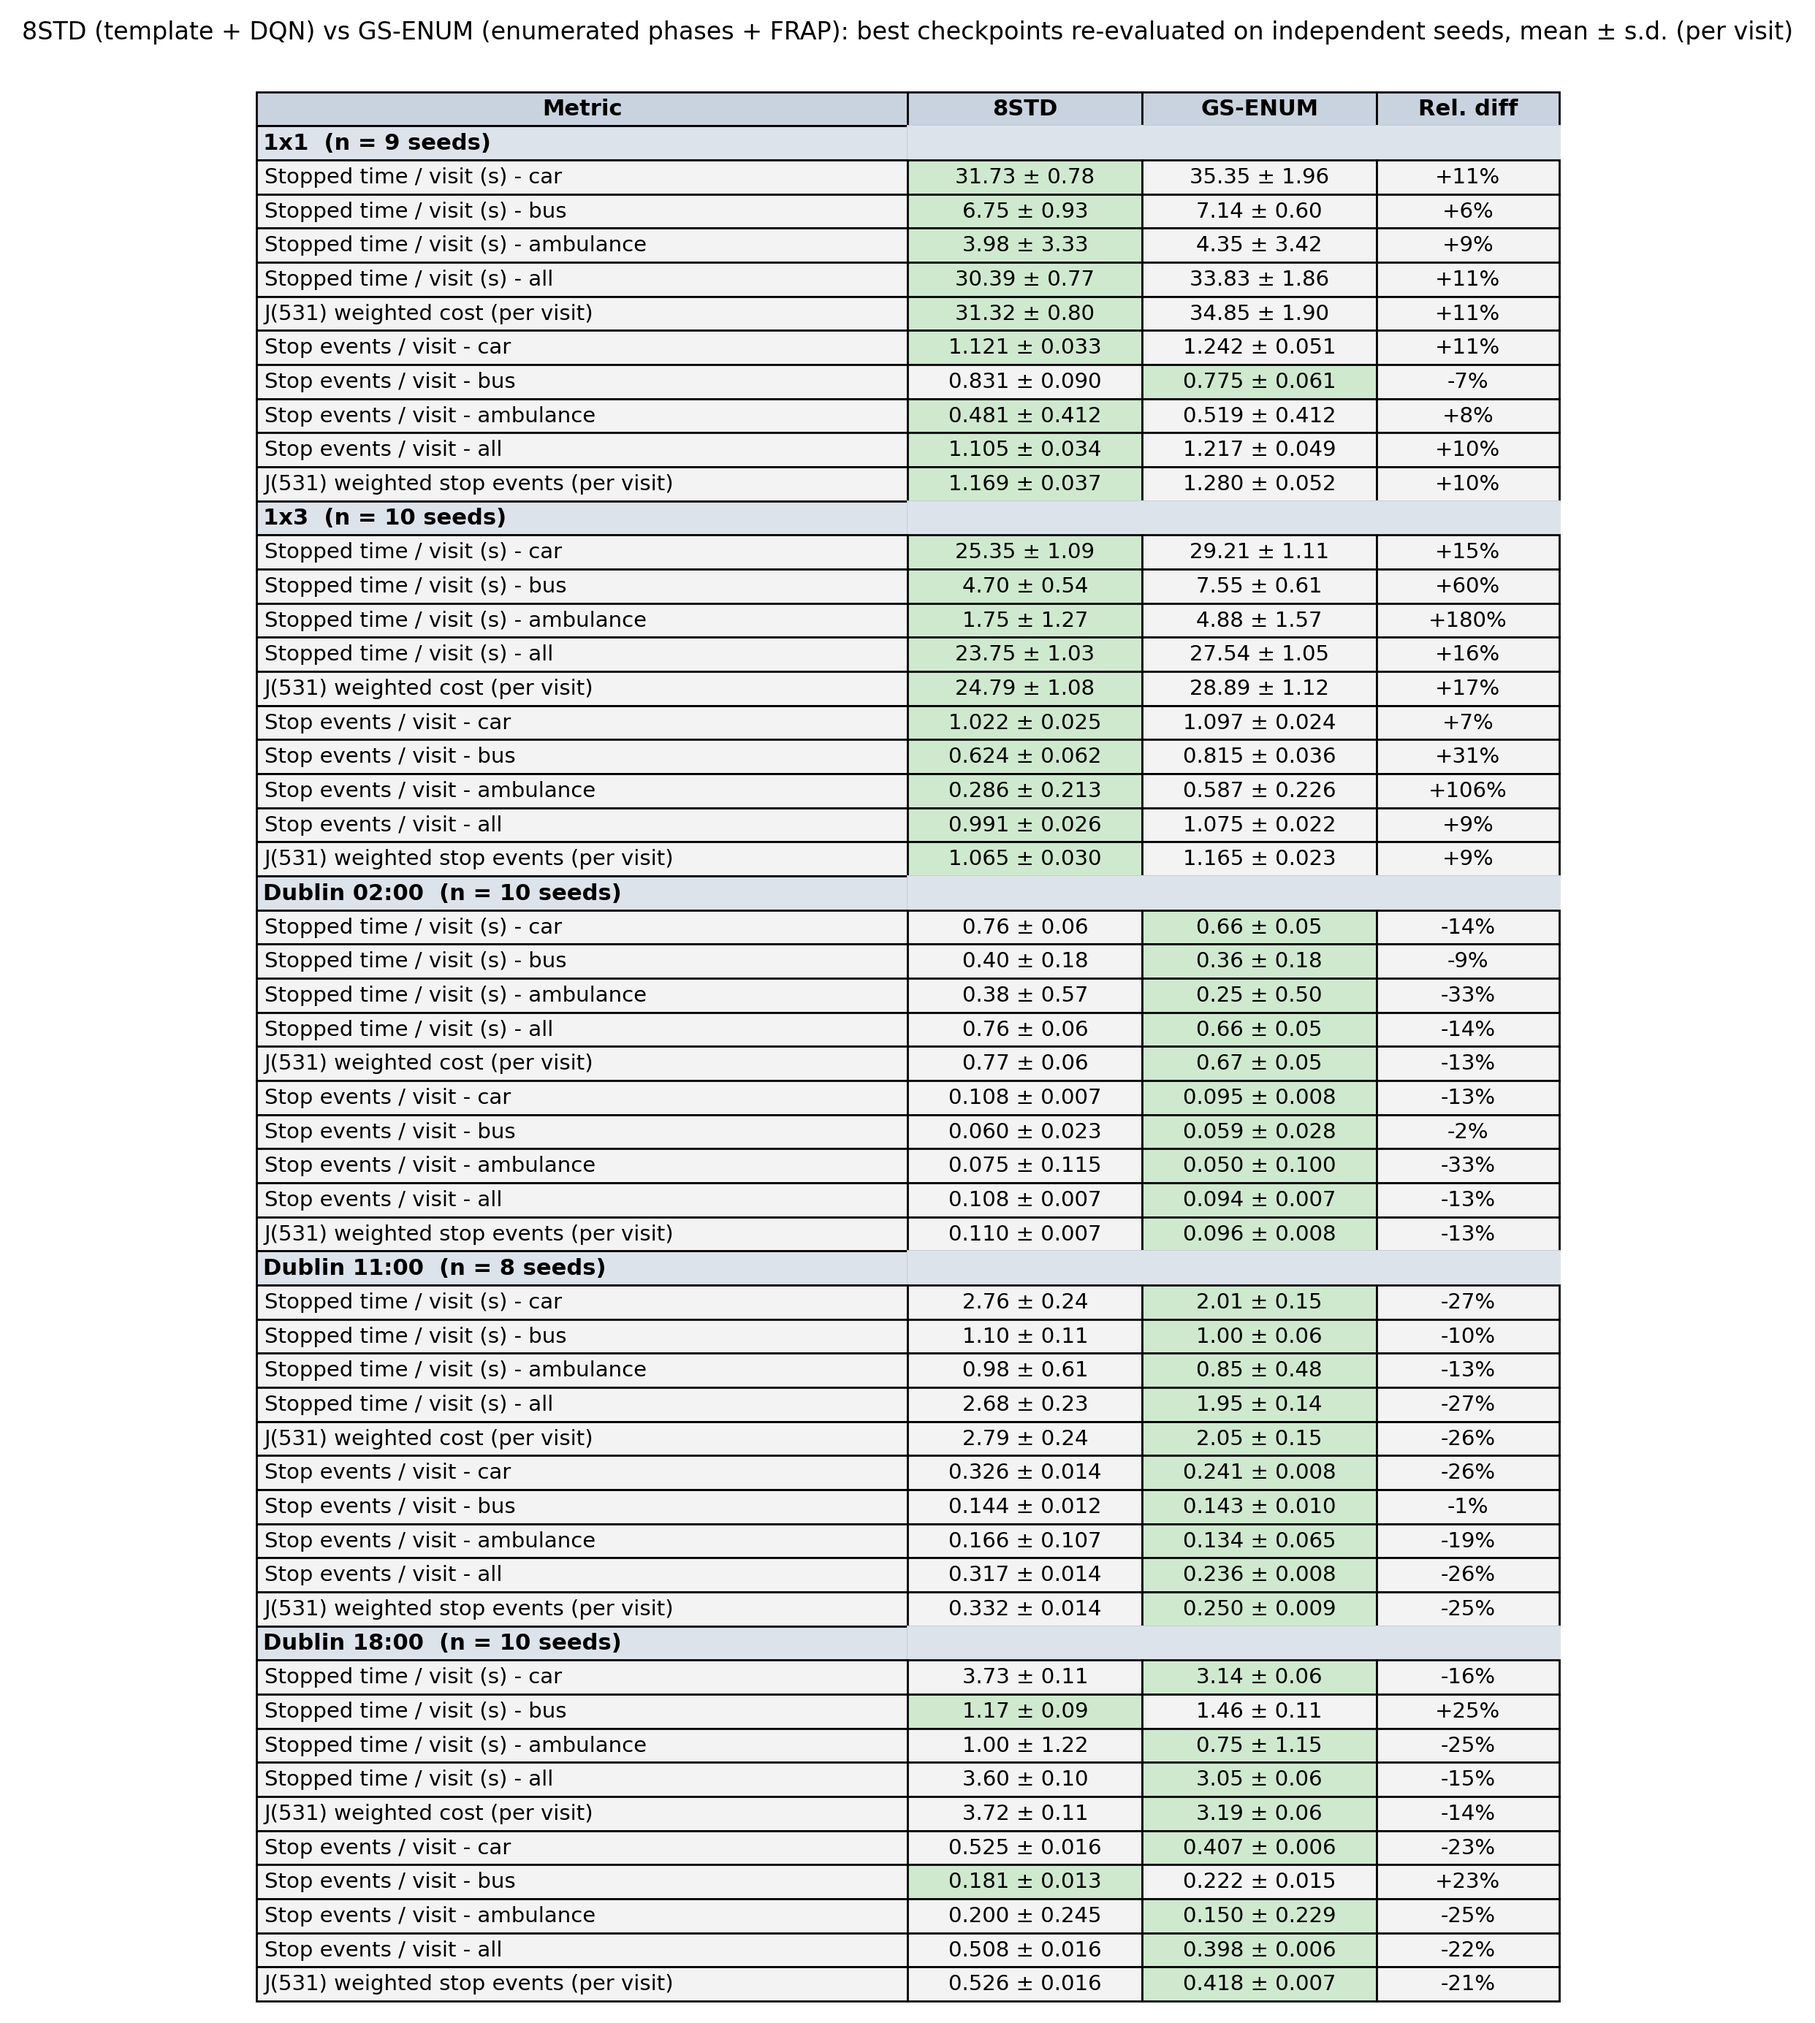
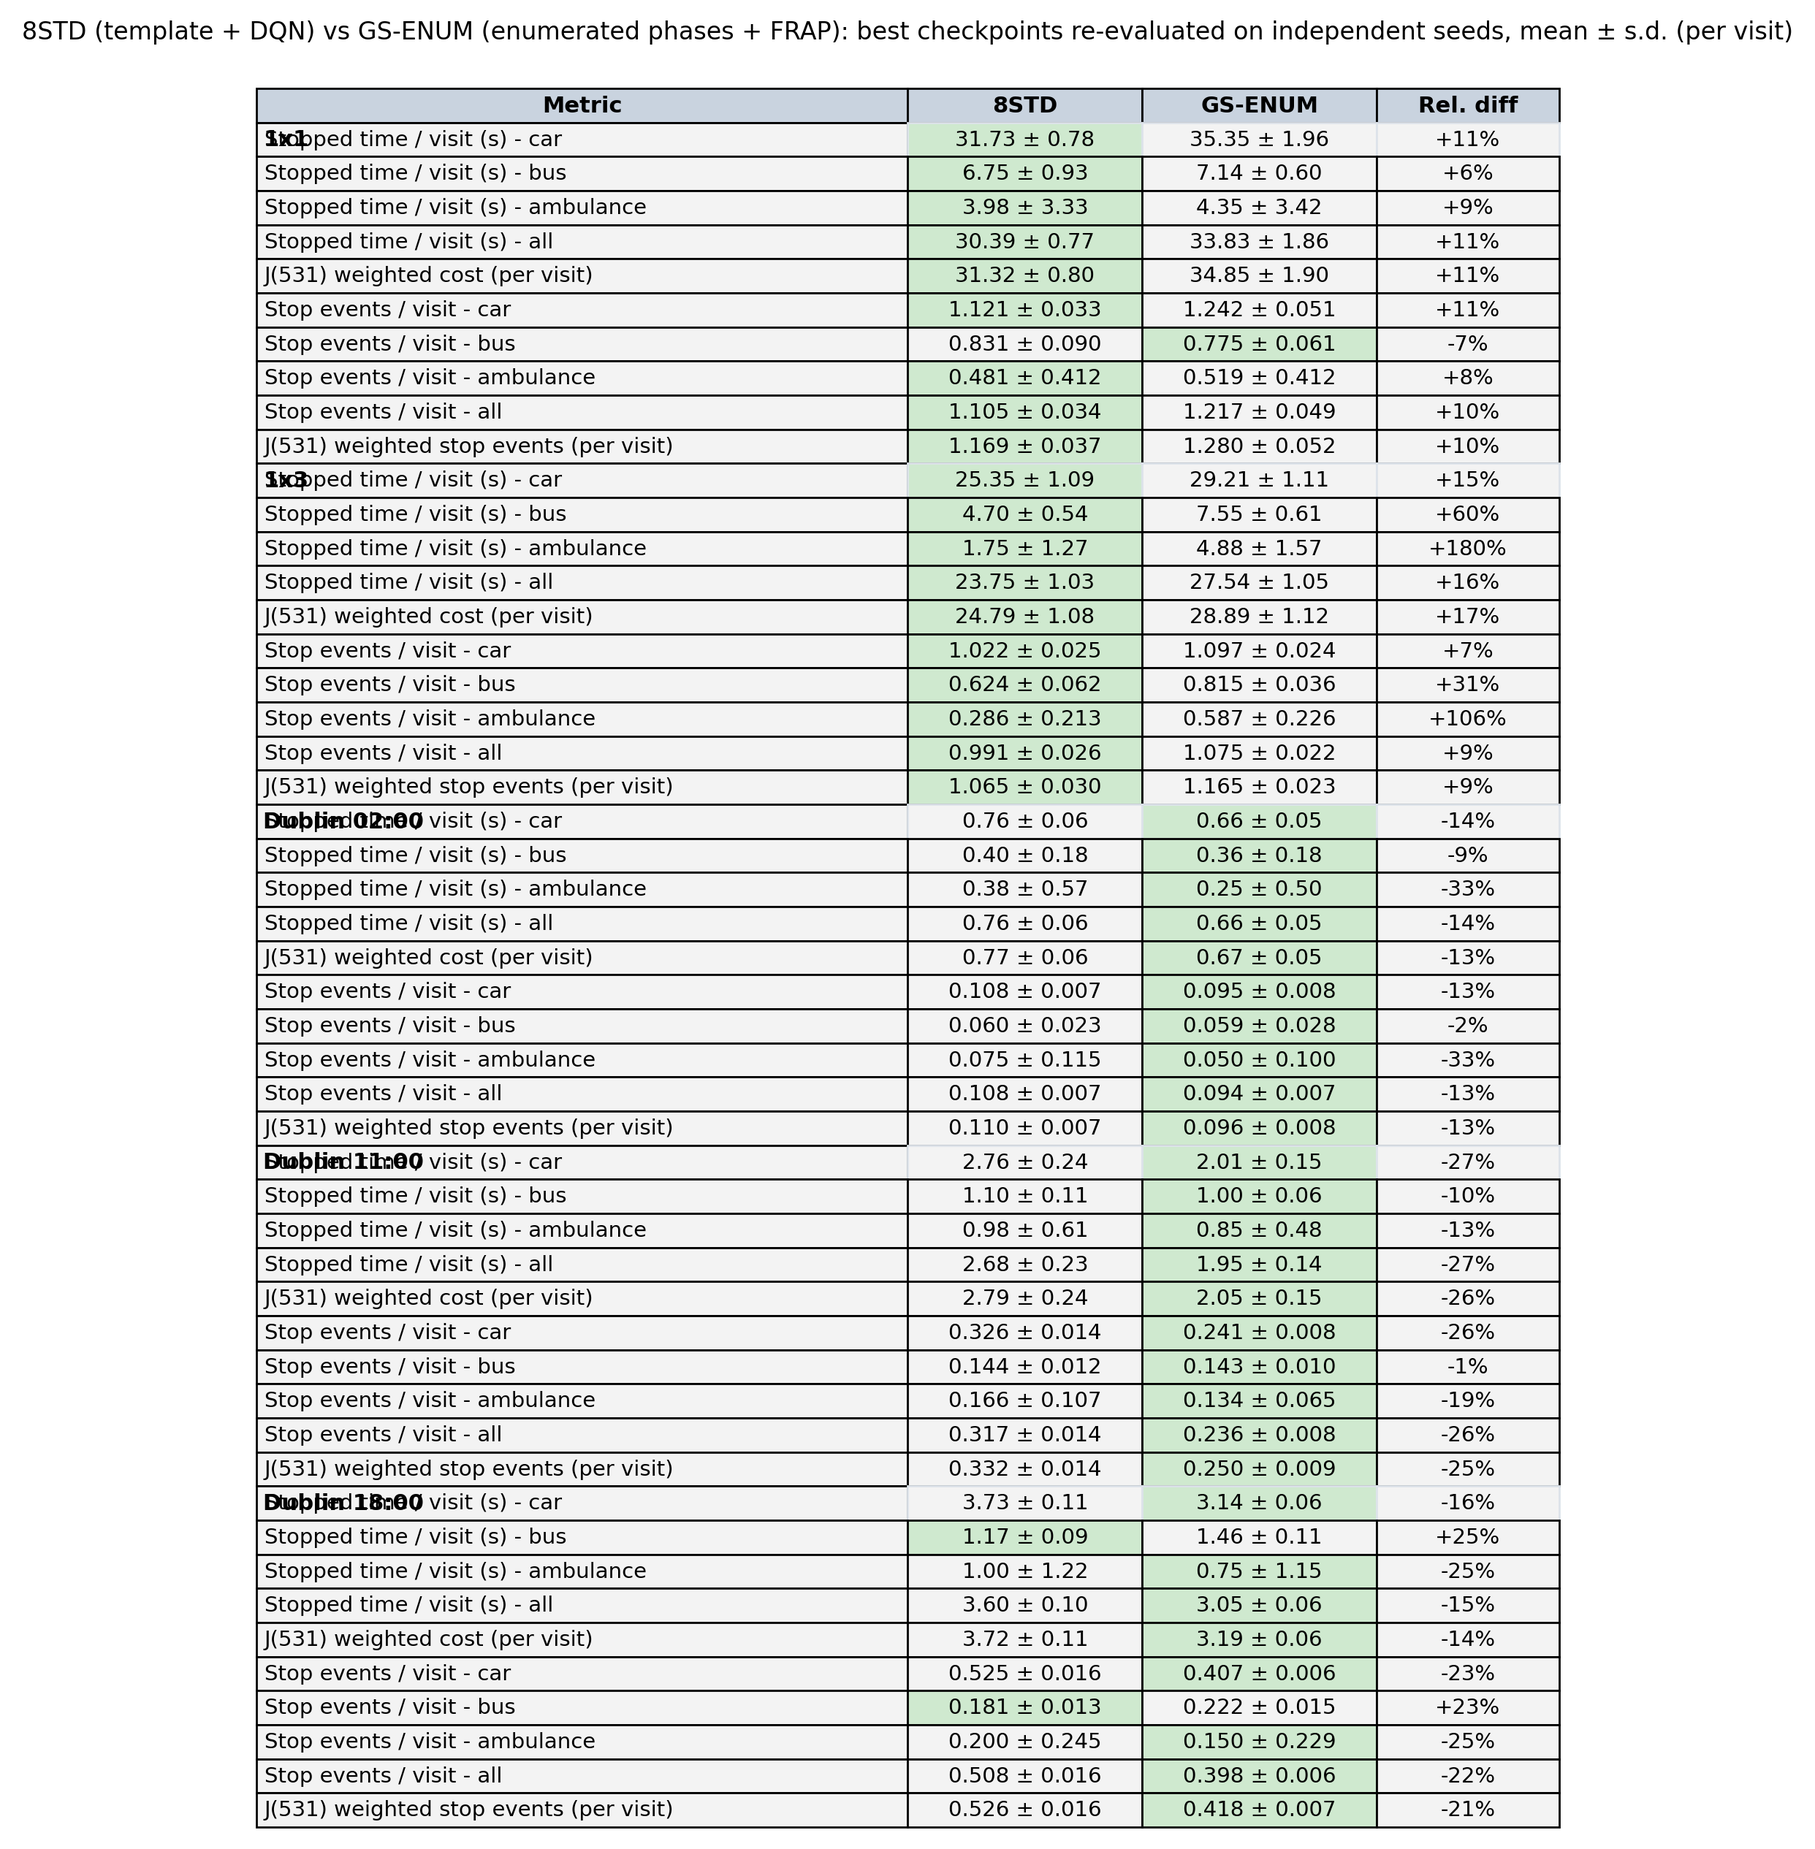
五场景合一表: 块标题去掉种子数 (用户令)

Changed region(s): [[0.124, 0.0, 0.868, 0.9988], [0.0, 0.0, 0.155, 0.0312], [0.93, 0.0, 0.9919, 0.0312]]

diff --git a/experiments/tools/figures/plot_five_scenarios_2026-09-30.py b/experiments/tools/figures/plot_five_scenarios_2026-09-30.py
@@ -41,7 +41,7 @@ def main():
     cells, colors, hdr, titles, dump = [], [], [], [], {}
     for name, loader, amb_na in SCEN:
         rt, re_, seeds = loader(); dump[name] = {"seeds": seeds, "stopped_time": rt, "stop_events": re_}
-        hdr.append(len(cells) + 1); titles.append(f"{name}  (n = {len(seeds)} seeds)"); cells.append(["", "", "", ""]); colors.append([HEAD] * 4)
+        hdr.append(len(cells) + 1); titles.append(name)   # 2026-09-30 用户令: 标题只写场景名, 不写 n; cells.append(["", "", "", ""]); colors.append([HEAD] * 4)
         for block, tag in ((rt, "t"), (re_, "e")):
             d = 2 if tag == "t" else 3; means = {}
             for row in block:
